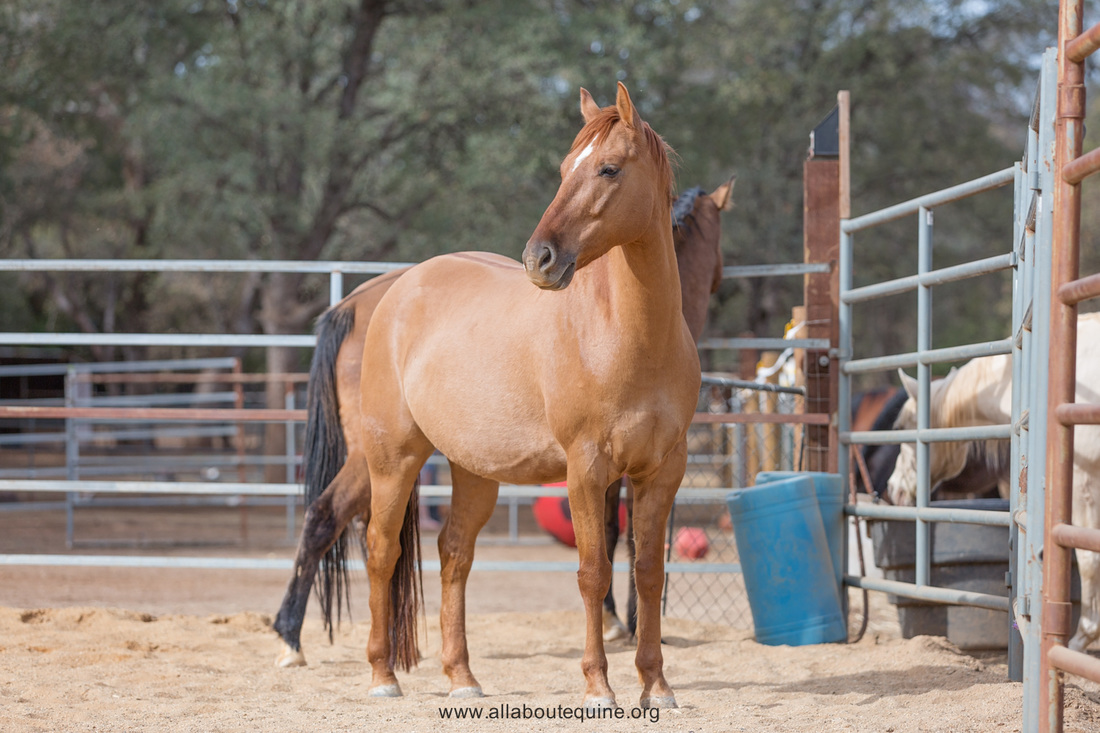
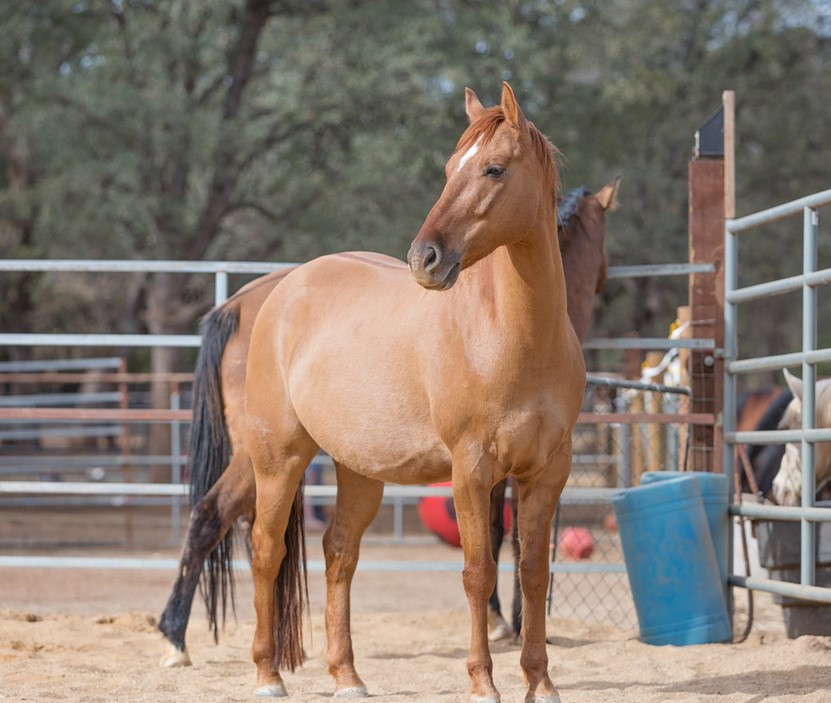
fixed the animal profile picture styling; centered with flex

diff --git a/public/index.html b/public/index.html
@@ -112,9 +112,6 @@
                         <div class="animal-image container">
                             <img class="image" src="/images/oatmeal.png"
                                 alt="an adorable cat named Oatmeal who is up for adoption">
-                            <div class="middle">
-                                <button class="text">Adopt Me!</button>
-                            </div>
                         </div>
                     </article>
                 </div>
@@ -128,9 +125,6 @@
                         <div class="animal-image container">
                             <img class="image" src="/images/blue.png"
                                 alt="an adorable carolina dog named Dottie who is up for adoption">
-                            <div class="middle">
-                                <button class="text">Adopt Me!</button>
-                            </div>
                         </div>
                     </article>
                 </div>
@@ -144,9 +138,6 @@
                         <div class="animal-image container">
                             <img class="image" src="/images/dottie.png"
                                 alt="an adorable carolina dog named Dottie who is up for adoption">
-                            <div class="middle">
-                                <button class="text">Adopt Me!</button>
-                            </div>
                         </div>
                     </article>
                 </div>

diff --git a/public/animal-profile.js b/public/animal-profile.js
@@ -37,7 +37,7 @@ function generateProfile(animal) {
         const imageContainer = document.createElement('div');
         imageContainer.classList.add('profile-image');
         imageContainer.innerHTML = `
-        <img class="profile-imgs" src="${picture.url}"/>        
+        <div class="profile-img-flex"><img class="profile-imgs" src="${picture.url}"/></div>        
         `;
         profile.appendChild(imageContainer);
     });

diff --git a/public/styles.css b/public/styles.css
@@ -369,10 +369,15 @@ padding-bottom: 40px;
 
 .profile-imgs {
 width: 500px;
-margin-left: 33%;
 margin-bottom: 30px;
 border: 5px ridge rgb(169, 190, 178);
 border-radius: 10px;
+}
+
+.profile-img-flex {
+    display: flex;
+    align-items: center;
+    justify-content: center;
 }
 
 @media only screen and (min-width: 450px) {
